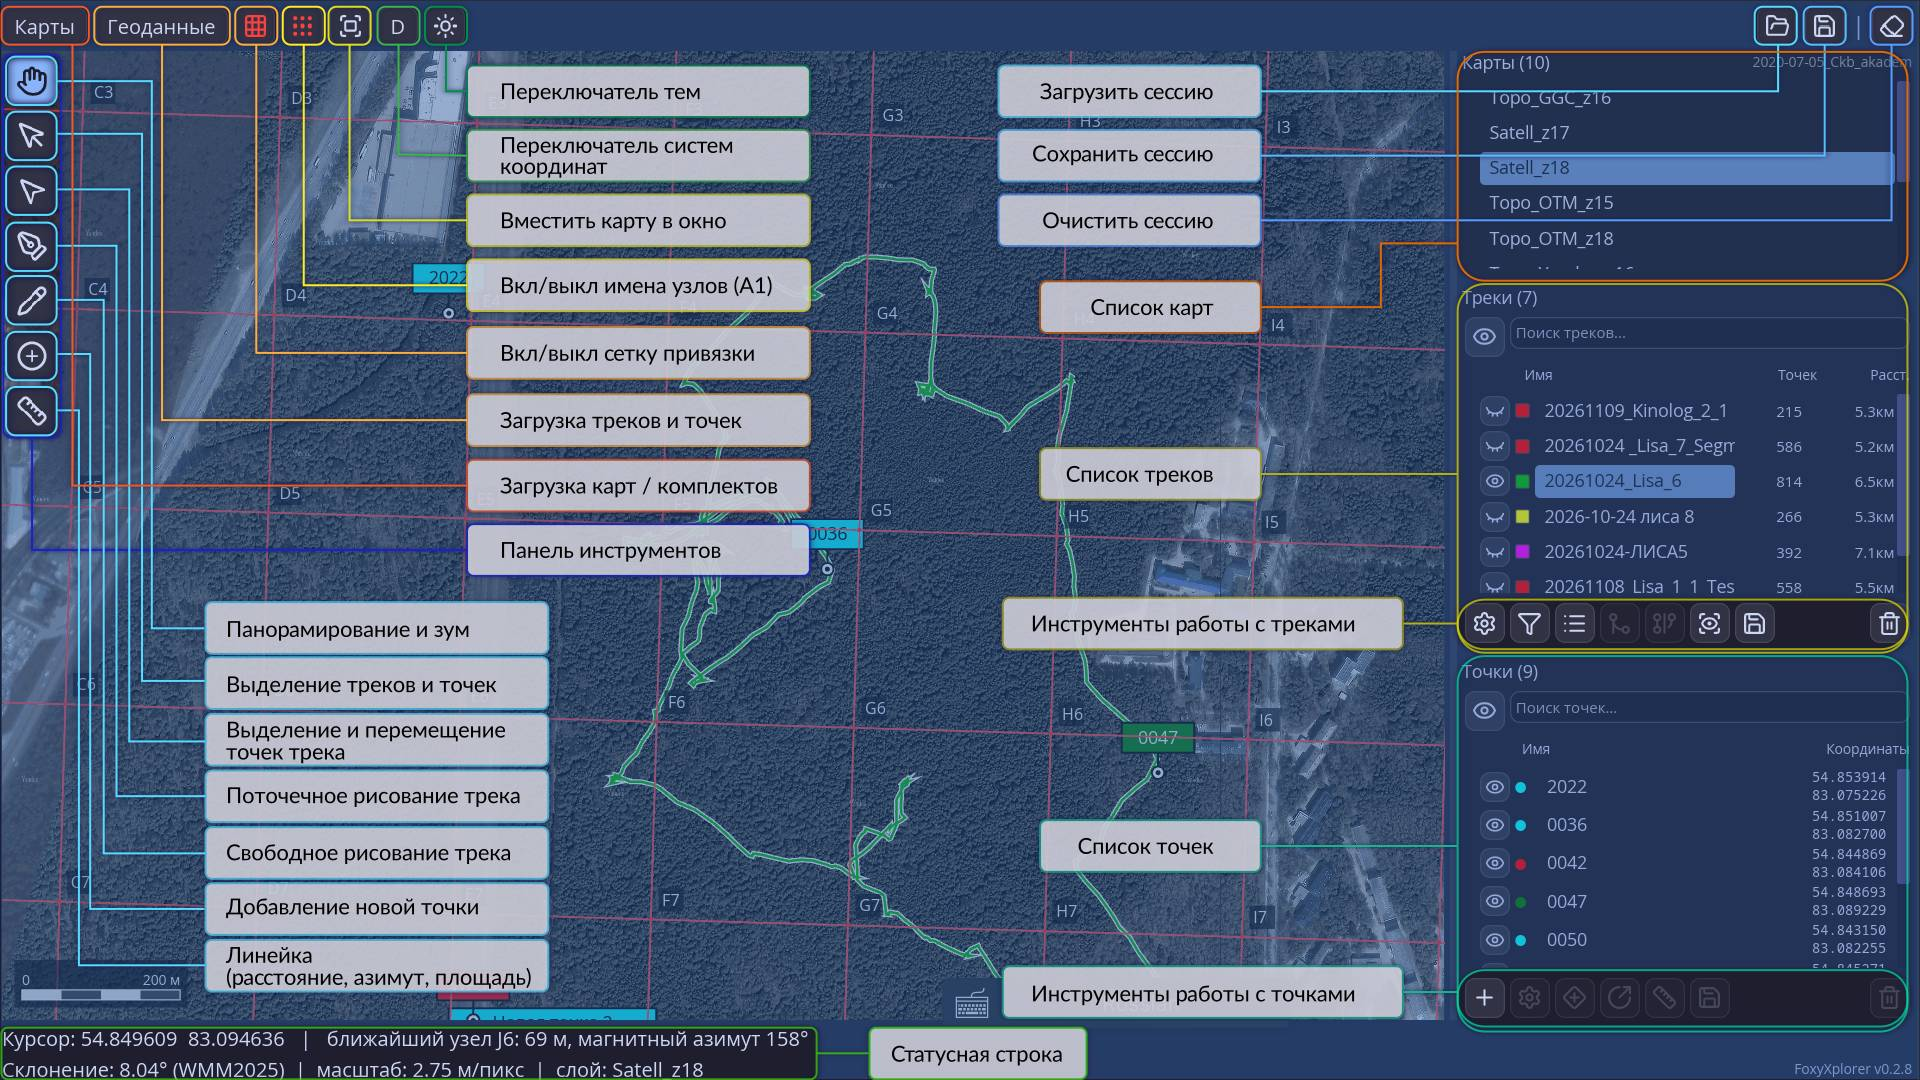
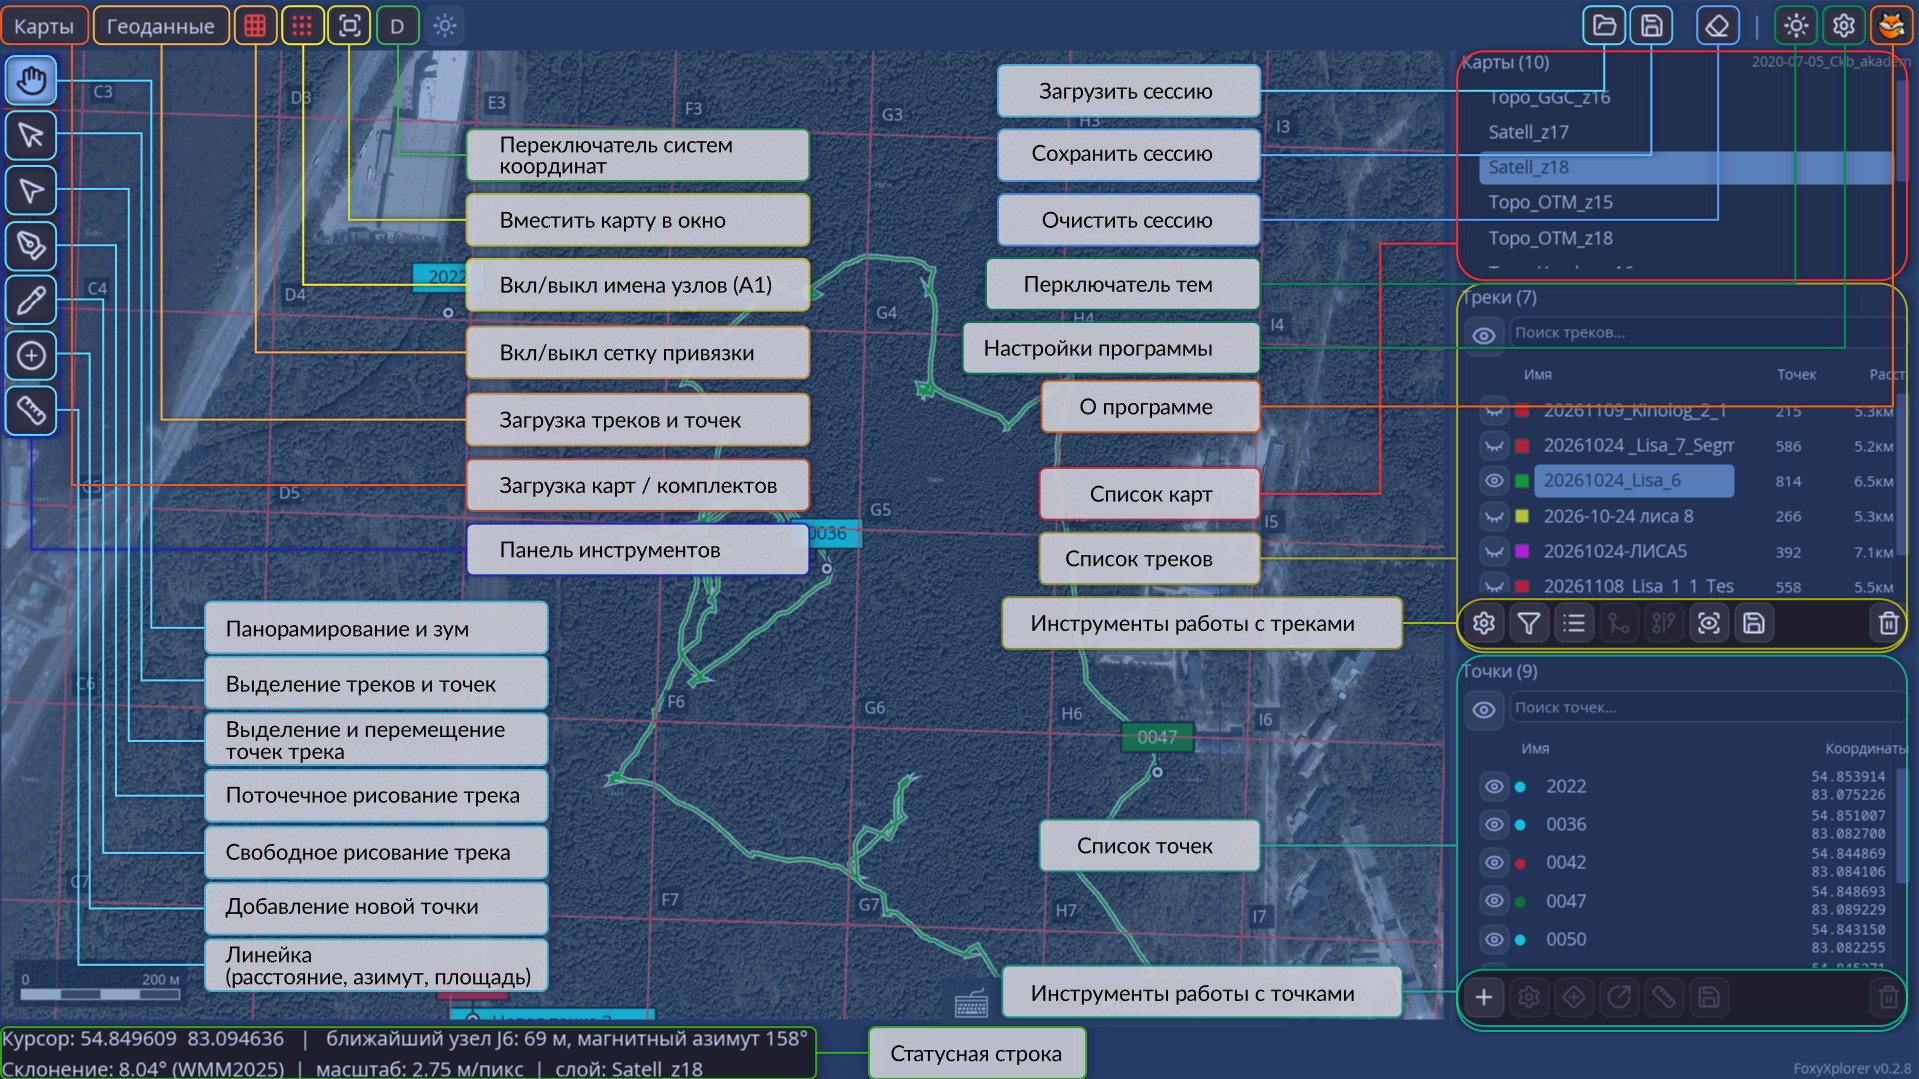
Docs update

diff --git a/docs/user-guide.md b/docs/user-guide.md
@@ -17,13 +17,17 @@
 
 - Кнопка "Переключение форматов координат" переключает по циклу форматы dd.dddddd, dd°mm.mmm', dd°mm'ss.ss" в статусной строке и в списке точек
 
-- Кнопка "Переключение темы" позволяет переключать светлую и темную темы интерфейса
-
 - Кнопка "Загрузить сессию" позволяет загрузить сохраненную сессию из файла. Горячая клавиша - **Ctrl-O**.
 
 - Кнопка "Сохранить сессию" позволяет сохранить текущую сессию. Горячая клавиша - **Ctrl-S**.
 
-- Кнопка "Очистить сессию" позволяет удалить все содержимое, включая карты, треки и точки и начать работу с чистого листа
+- Кнопка "Очистить сессию" позволяет удалить все содержимое, включая карты, треки и точки и начать работу с чистого листа.
+
+- Кнопка "Переключение темы" позволяет переключать светлую и темную темы интерфейса
+
+- Настройки программы (язык, стартовая локация, допуск упрощения )
+
+- О программе (ссылки, версия)
 
 ### Панель инструментов
 
@@ -55,7 +59,6 @@
 Оффлайн-карты загружаются из их текущего положения, поэтому не стоит перемещать / удалять их между сессиями.
 
 Онлайн-карты кэшируются в:
-
 
 **Linux:** 
 
@@ -91,7 +94,7 @@ C:\Users\<user>\AppData\Local\foxy\esri\z\x\y.jpg`
 
 - Свойства трека - аналогично двойному клику на имени, вызывает модальное окно "Свойства трека". Выбран один трек.
 
-- Фильтрация трека по алгоритму Дугласа-Пекера, аналогичная фильтрации Ozi с Filter Index = 4. Без параметров. Выбран один трек и более.
+- Фильтрация трека по алгоритму Дугласа-Пекера, порог упрощения по умолчанию эмпирически подобран, чтобы соответствовать  фильтрации Ozi с Filter Index = 4. Это значение можно изменить в настройках приложения. Выбран один трек и более.
 
 - Вызывает модальное окно "Список точек" (см. ниже). Выбран один трек.
 
